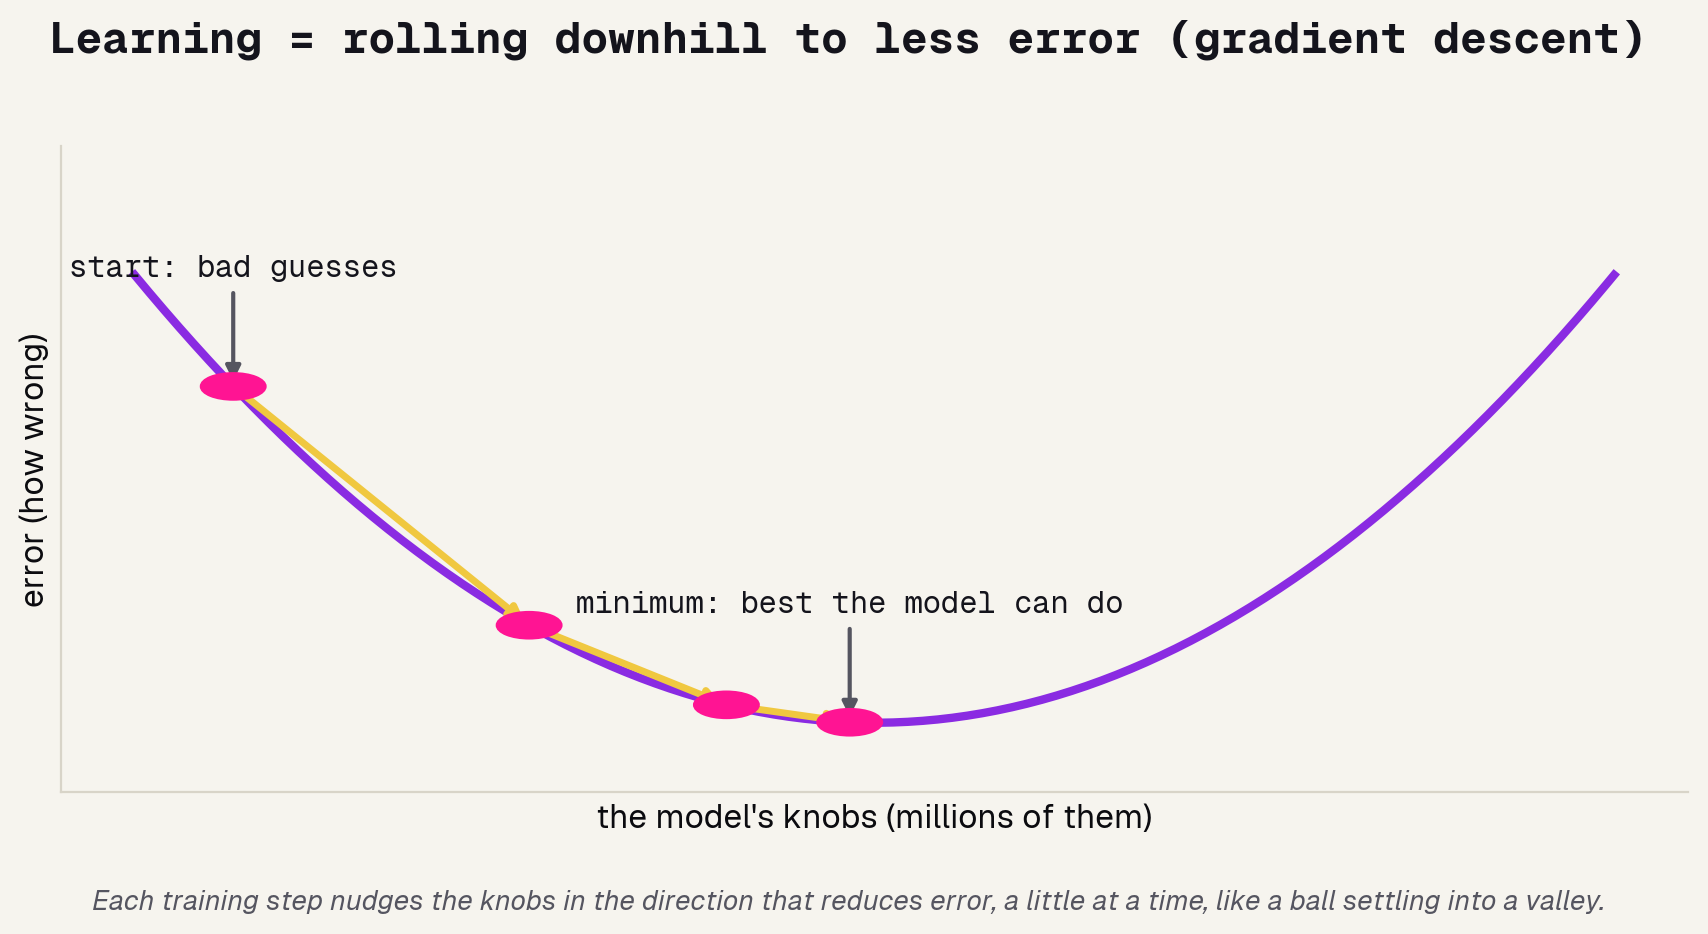
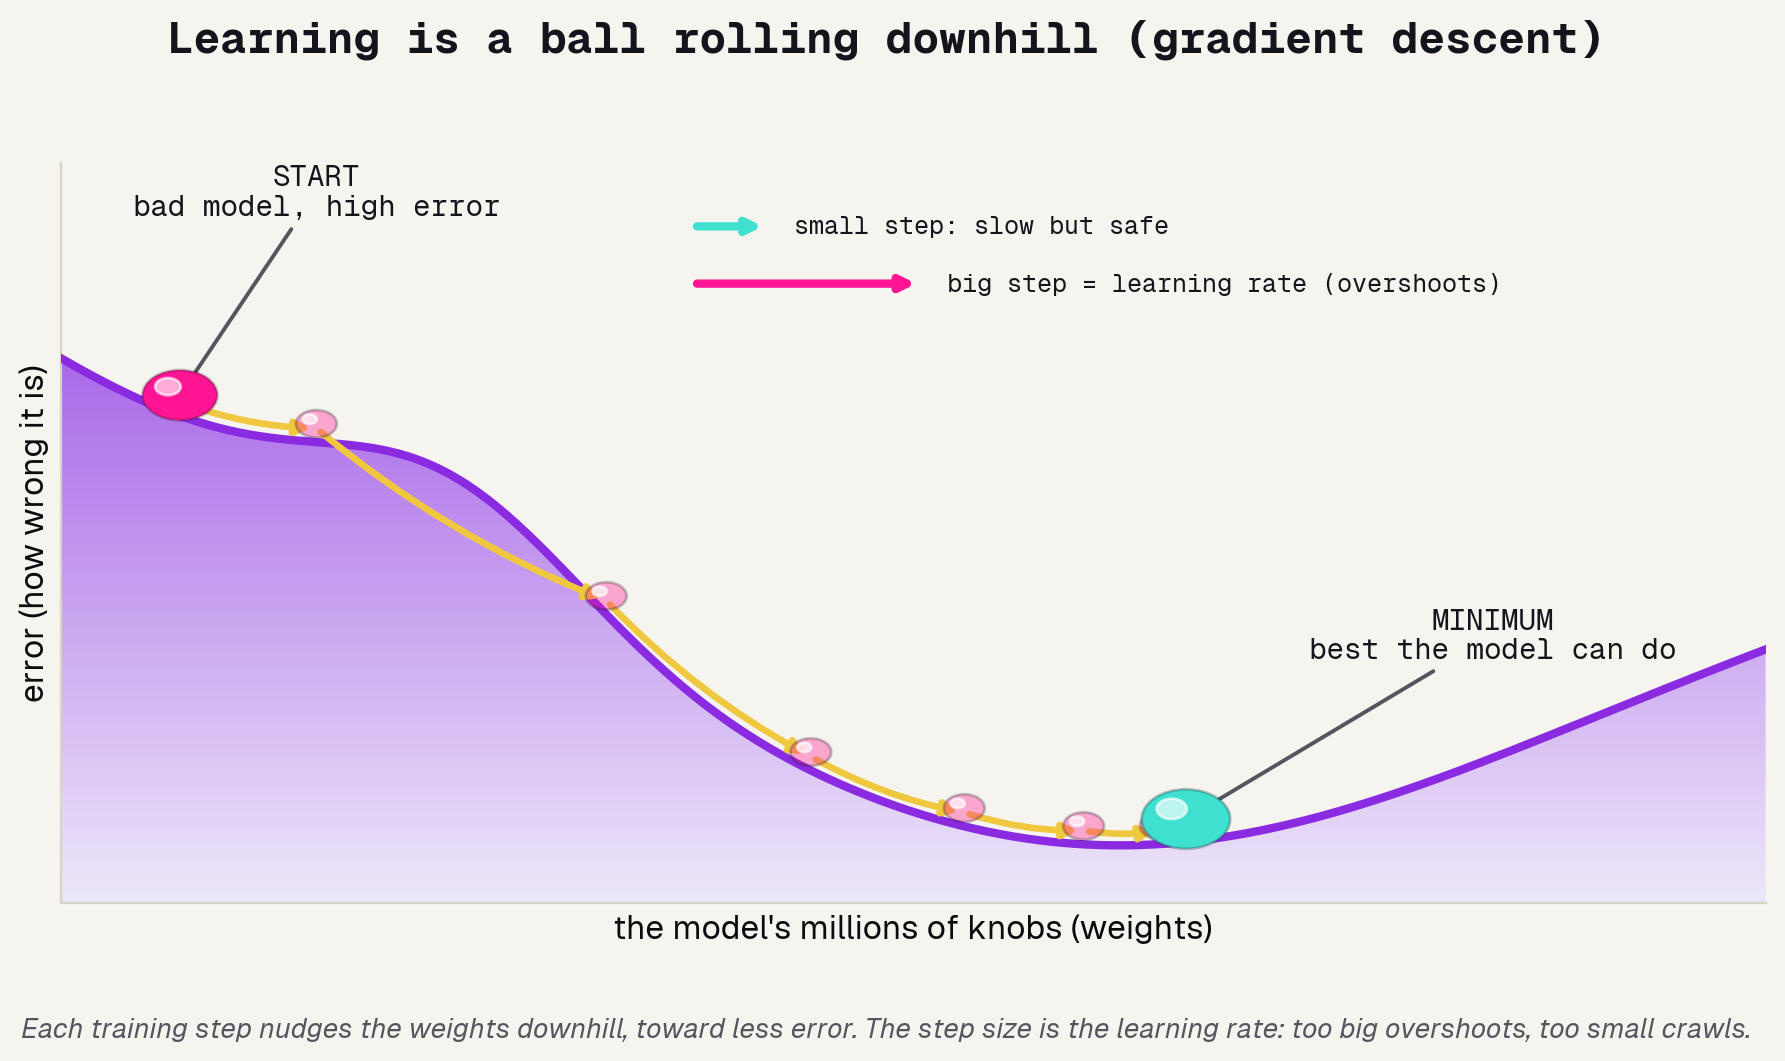
Day1: bespoke gradient-descent hill, concrete sens/spec, new ROC slide
- concept_gradient_descent: replace the abstract parabola with a detailed
  'ball rolling down a hill' -- gradient-filled landscape, glossy 3D balls on a
  motion trail, start->minimum, and a learning-rate step-size legend (too big
  overshoots, too small crawls). Ties to the notebook's LR playground.
- eval_sens_spec: replace two text boxes with a concrete 100-patient grid that
  marks the 2 MISSED cases (preventable blindness) and the false alarms, plus
  metric cards on the human cost.
- eval_roc (new): a real ROC curve with strict/balanced/screening operating
  points, AUC, and a 'how to read it' panel; new 'Reading an ROC curve' slide.

diff --git a/slides/figures_day1_extra.py b/slides/figures_day1_extra.py
@@ -77,31 +77,74 @@ def fig_data_split():
 # --------------------------------------------------------------------------- #
 # How learning works: gradient descent
 # --------------------------------------------------------------------------- #
+def _glossy_ball(ax, cx, cy, r, color, z=6):
+    """A ball that actually looks 3D: shaded body + a white sheen highlight."""
+    ax.add_patch(Circle((cx, cy), r, color=color, zorder=z, ec="none"))
+    ax.add_patch(Circle((cx, cy), r, fill=False, ec=INK, lw=1.0, alpha=0.25, zorder=z + 0.1))
+    ax.add_patch(Circle((cx - r * 0.32, cy + r * 0.34), r * 0.34, color="white", alpha=0.65, zorder=z + 0.2))
+
+
 def fig_gradient_descent():
-    fig, ax = plt.subplots(figsize=(10.5, 4.2))
-    x = np.linspace(-3, 3, 200)
-    y = 0.5 * x ** 2 + 0.4
-    ax.plot(x, y, color=BLUEVIOLET, lw=3)
-    ax.set_ylim(-0.3, 6.2)
-    pts = [(-2.6, "start: bad guesses"), (-1.4, ""), (-0.6, ""), (-0.1, "minimum: best the model can do")]
-    for px, lab in pts:
-        py = 0.5 * px ** 2 + 0.4
-        ax.add_patch(Circle((px, py), 0.13, color=DEEPPINK, zorder=5))
-        if lab:
-            ax.annotate(lab, (px, py), xytext=(px, py + 1.1), fontsize=11, family="Geist Mono",
-                        color=INK, ha="center",
-                        arrowprops=dict(arrowstyle="-|>", color=MUTED, lw=1.5))
-    for i in range(len(pts) - 1):
-        x0 = pts[i][0]; x1 = pts[i + 1][0]
-        ax.annotate("", xy=(x1, 0.5 * x1 ** 2 + 0.4), xytext=(x0, 0.5 * x0 ** 2 + 0.4),
-                    arrowprops=dict(arrowstyle="-|>", color=AMBER, lw=2.5))
-    ax.set_xlabel("the model's knobs (millions of them)", fontsize=12)
-    ax.set_ylabel("error (how wrong)", fontsize=12)
+    from matplotlib.colors import LinearSegmentedColormap
+    from matplotlib.patches import Polygon
+
+    fig, ax = plt.subplots(figsize=(11, 4.8))
+    x = np.linspace(0, 10, 500)
+    # a real rolling landscape: a deep valley on the right, a little local dip + bump on the left
+    y = (0.09 * (x - 6.6) ** 2          # the big bowl (global minimum near x=6.6)
+         + 0.9 * np.exp(-((x - 2.3) / 1.1) ** 2)   # a hump the ball rolls over
+         + 0.35 * np.sin(0.8 * x) + 1.0)
+
+    ymin = y.min() - 0.5
+    ax.set_xlim(0, 10); ax.set_ylim(ymin, y.max() + 1.7)
+
+    # gradient-filled hill under the curve (light at the surface -> brand violet deep down)
+    hill = LinearSegmentedColormap.from_list("hill", ["#EDE7FB", BLUEVIOLET])
+    grad = np.linspace(1, 0, 256).reshape(-1, 1)
+    im = ax.imshow(grad, extent=[0, 10, ymin, y.max() + 1.7], origin="upper", aspect="auto",
+                   cmap=hill, zorder=0, alpha=0.92)
+    verts = list(zip(x, y)) + [(10, ymin), (0, ymin)]
+    clip = Polygon(verts, closed=True, transform=ax.transData)
+    im.set_clip_path(clip)
+    ax.plot(x, y, color=BLUEVIOLET, lw=3, zorder=3)            # the hill surface line
+
+    def yof(xx):
+        return float(np.interp(xx, x, y))
+
+    # the descending trajectory: ball starts high-left, rolls over the hump into the valley
+    path = [0.7, 1.5, 3.2, 4.4, 5.3, 6.0, 6.45, 6.6]
+    for i in range(len(path) - 1):
+        x0, x1 = path[i], path[i + 1]
+        ax.annotate("", xy=(x1, yof(x1) + 0.12), xytext=(x0, yof(x0) + 0.12),
+                    arrowprops=dict(arrowstyle="-|>", color=AMBER, lw=2.4,
+                                    connectionstyle="arc3,rad=0.08"), zorder=4)
+    for xx in path[1:-1]:                                       # faded "motion" balls
+        _glossy_ball(ax, xx, yof(xx) + 0.16, 0.12, DEEPPINK, z=4)
+        ax.patches[-3].set_alpha(0.35)
+
+    # start + end emphasised
+    _glossy_ball(ax, path[0], yof(path[0]) + 0.18, 0.22, DEEPPINK, z=7)
+    ax.annotate("START\nbad model, high error", (path[0], yof(path[0]) + 0.18),
+                xytext=(1.5, y.max() + 1.25), fontsize=10.5, family="Geist Mono", color=INK, ha="center",
+                arrowprops=dict(arrowstyle="-|>", color=MUTED, lw=1.4))
+    _glossy_ball(ax, path[-1], yof(path[-1]) + 0.2, 0.26, TURQUOISE, z=7)
+    ax.annotate("MINIMUM\nbest the model can do", (path[-1], yof(path[-1]) + 0.2),
+                xytext=(8.4, yof(path[-1]) + 1.6), fontsize=10.5, family="Geist Mono", color=INK, ha="center",
+                arrowprops=dict(arrowstyle="-|>", color=MUTED, lw=1.4))
+
+    # learning-rate = step size inset (two arrows of different lengths), in the open top-center
+    lx, ly = 3.7, y.max() + 1.15
+    ax.annotate("", xy=(lx + 0.45, ly), xytext=(lx, ly), arrowprops=dict(arrowstyle="-|>", color=TURQUOISE, lw=3))
+    ax.text(lx + 0.6, ly, "small step: slow but safe", fontsize=9, color=INK, va="center", family="Geist Mono")
+    ax.annotate("", xy=(lx + 1.35, ly - 0.5), xytext=(lx, ly - 0.5), arrowprops=dict(arrowstyle="-|>", color=DEEPPINK, lw=3))
+    ax.text(lx + 1.5, ly - 0.5, "big step = learning rate (overshoots)", fontsize=9, color=INK, va="center", family="Geist Mono")
+
+    ax.set_xlabel("the model's millions of knobs (weights)", fontsize=12)
+    ax.set_ylabel("error (how wrong it is)", fontsize=12)
     ax.set_xticks([]); ax.set_yticks([])
-    figtitle(fig, "Learning = rolling downhill to less error (gradient descent)")
-    fig.text(0.5, -0.03, "Each training step nudges the knobs in the direction that reduces error, "
-             "a little at a time, like a ball settling into a valley.",
-             ha="center", fontsize=10, color=MUTED, style="italic")
+    figtitle(fig, "Learning is a ball rolling downhill (gradient descent)")
+    fig.text(0.5, -0.03, "Each training step nudges the weights downhill, toward less error. The step size is "
+             "the learning rate: too big overshoots, too small crawls.", ha="center", fontsize=10, color=MUTED, style="italic")
     save(fig, "concept_gradient_descent.png")
 
 
@@ -189,22 +232,104 @@ def fig_confusion():
 # Sensitivity vs specificity
 # --------------------------------------------------------------------------- #
 def fig_sens_spec():
-    fig, (axL, axR) = plt.subplots(1, 2, figsize=(11, 4.0))
-    for ax, name, defn, q, c in [
-        (axL, "SENSITIVITY", "of the truly sick,\nhow many did we catch?", "Miss a referral\n= preventable blindness", DEEPPINK),
-        (axR, "SPECIFICITY", "of the truly healthy,\nhow many did we clear?", "False alarm\n= a needless specialist visit", TURQUOISE)]:
-        ax.axis("off"); ax.set_xlim(0, 1); ax.set_ylim(0, 1)
-        ax.add_patch(FancyBboxPatch((0.04, 0.08), 0.92, 0.84, boxstyle="round,pad=0.02,rounding_size=0.04",
-                                    facecolor=c, edgecolor="none"))
-        tc = txt_on(c)
-        ax.text(0.5, 0.76, name, ha="center", fontsize=20, fontweight="bold", color=tc, family="Geist Mono")
-        ax.text(0.5, 0.52, defn, ha="center", va="center", fontsize=13, color=tc)
-        ax.text(0.5, 0.22, q, ha="center", va="center", fontsize=11, color=tc, style="italic")
-    figtitle(fig, "The two numbers that matter in screening")
-    fig.text(0.5, -0.03, "For screening we usually favor SENSITIVITY: better to send a few healthy "
-             "people for a second look than to miss someone going blind.",
+    """100 real patients: show who gets caught, cleared, missed, and falsely alarmed."""
+    fig, (axG, axR) = plt.subplots(1, 2, figsize=(11.5, 4.8),
+                                   gridspec_kw={"width_ratios": [1.25, 1]})
+    # --- left: a population of 100 patients ---
+    axG.axis("off"); axG.set_xlim(-0.6, 10); axG.set_ylim(-2.0, 9.8)
+    axG.invert_yaxis()
+    # 20 sick patients at fixed scattered positions; 2 of them MISSED; 9 healthy = false alarms
+    sick = {3, 7, 11, 16, 22, 24, 31, 38, 40, 45, 52, 56, 61, 67, 70, 74, 81, 88, 93, 96}
+    missed = {40, 74}                 # sick but model said "fine" -> the costly errors
+    false_alarm = {5, 19, 28, 47, 59, 64, 83, 90, 99}   # healthy but model referred
+    LIGHT = "#D9D6CC"
+    for i in range(100):
+        r, c = divmod(i, 10)
+        if i in sick:
+            axG.add_patch(Circle((c, r), 0.38, color=DEEPPINK, zorder=3))
+            if i in missed:           # ring + slash = a missed case
+                axG.add_patch(Circle((c, r), 0.46, fill=False, ec=INK, lw=2.6, zorder=4))
+                axG.plot([c - 0.3, c + 0.3], [r + 0.3, r - 0.3], color=INK, lw=2.4, zorder=5)
+        else:
+            axG.add_patch(Circle((c, r), 0.38, color=LIGHT, zorder=3))
+            if i in false_alarm:
+                axG.add_patch(Circle((c, r), 0.46, fill=False, ec=AMBER, lw=2.6, zorder=4))
+    axG.set_title("100 patients screened", fontsize=12, color=INK, family="Geist Mono")
+    # mini legend above the grid (2x2)
+    leg = [(DEEPPINK, "has disease"), (LIGHT, "healthy"), (INK, "MISSED (x)"), (AMBER, "false alarm (o)")]
+    for k, (col, lab) in enumerate(leg):
+        lx = (k % 2) * 5.0; ly = -1.65 + (k // 2) * 0.7
+        axG.add_patch(Circle((lx, ly), 0.22, color=col if col != INK else "white",
+                             ec=col if col in (INK, AMBER) else "none", lw=2.2))
+        axG.text(lx + 0.45, ly, lab, fontsize=9.5, color=INK, va="center", family="Geist Mono")
+
+    # --- right: the two numbers + the human cost ---
+    axR.axis("off"); axR.set_xlim(0, 1); axR.set_ylim(0, 1)
+    axR.add_patch(FancyBboxPatch((0.03, 0.55), 0.94, 0.4, boxstyle="round,pad=0.02,rounding_size=0.06",
+                                 facecolor=DEEPPINK, edgecolor="none"))
+    axR.text(0.5, 0.85, "SENSITIVITY = 90%", ha="center", fontsize=17, fontweight="bold",
+             color="white", family="Geist Mono")
+    axR.text(0.5, 0.66, "caught 18 of 20 sick.\nthe 2 we MISSED -> preventable blindness",
+             ha="center", va="center", fontsize=11, color="white")
+    axR.add_patch(FancyBboxPatch((0.03, 0.08), 0.94, 0.4, boxstyle="round,pad=0.02,rounding_size=0.06",
+                                 facecolor=TURQUOISE, edgecolor="none"))
+    axR.text(0.5, 0.38, "SPECIFICITY = 89%", ha="center", fontsize=17, fontweight="bold",
+             color=txt_on(TURQUOISE), family="Geist Mono")
+    axR.text(0.5, 0.19, "cleared 71 of 80 healthy.\n9 false alarms -> a needless specialist visit",
+             ha="center", va="center", fontsize=11, color=txt_on(TURQUOISE))
+    figtitle(fig, "Sensitivity and specificity, in actual people")
+    fig.text(0.5, -0.03, "A missed case (✕) is far costlier than a false alarm (○), so screening tools are "
+             "tuned for high sensitivity, even at the price of more false alarms.",
              ha="center", fontsize=10, color=MUTED, style="italic")
     save(fig, "eval_sens_spec.png")
+
+
+# --------------------------------------------------------------------------- #
+# ROC curve + thresholds
+# --------------------------------------------------------------------------- #
+def fig_roc():
+    """A real ROC curve with three operating points and what moving the threshold does."""
+    fig, (axL, axR) = plt.subplots(1, 2, figsize=(11.5, 4.8),
+                                   gridspec_kw={"width_ratios": [1.05, 1]})
+    # a realistic ROC: TPR vs FPR for a decent model (AUC ~ 0.9)
+    fpr = np.linspace(0, 1, 200)
+    tpr = fpr ** 0.28                     # concave, well above the diagonal
+    axL.plot([0, 1], [0, 1], ls="--", color=MUTED, lw=1.5, label="random guessing")
+    axL.plot(fpr, tpr, color=BLUEVIOLET, lw=3.5, zorder=3)
+    axL.fill_between(fpr, tpr, fpr, color=BLUEVIOLET, alpha=0.10)
+    # three operating points along the curve
+    ops = [(0.04, 0.04 ** 0.28, "strict\n(high specificity)", TURQUOISE, (0.07, -0.10)),
+           (0.20, 0.20 ** 0.28, "balanced", AMBER, (0.06, 0.05)),
+           (0.55, 0.55 ** 0.28, "screening\n(high sensitivity)", DEEPPINK, (0.02, 0.06))]
+    for fx, ty, lab, c, (ox, oy) in ops:
+        axL.add_patch(Circle((fx, ty), 0.022, color=c, zorder=6))
+        axL.annotate(lab, (fx, ty), xytext=(fx + ox, ty + oy), fontsize=9.5,
+                     family="Geist Mono", color=INK)
+    axL.text(0.55, 0.18, "AUC ~ 0.90", fontsize=13, fontweight="bold", color=BLUEVIOLET, family="Geist Mono")
+    axL.set_xlabel("false-alarm rate  (1 - specificity)", fontsize=11)
+    axL.set_ylabel("catch rate  (sensitivity)", fontsize=11)
+    axL.set_xlim(-0.02, 1.02); axL.set_ylim(-0.02, 1.05)
+    axL.set_xticks([0, 0.5, 1]); axL.set_yticks([0, 0.5, 1]); axL.legend(loc="lower right", fontsize=9.5)
+    axL.set_title("the ROC curve", fontsize=12, color=INK, family="Geist Mono")
+
+    # right: how to read it
+    axR.axis("off"); axR.set_xlim(0, 1); axR.set_ylim(0, 1)
+    rows = [("Every point is a threshold.", "Slide the cutoff and you move along the curve, trading "
+             "catch rate against false alarms.", BLUEVIOLET),
+            ("Up-and-left is better.", "The closer the curve hugs the top-left corner, the better the "
+             "model. The dashed line is a coin flip.", TURQUOISE),
+            ("AUC = one summary number.", "The area under the curve, 0.5 is random, 1.0 is perfect. "
+             "It rates the model independent of any one threshold.", AMBER),
+            ("Screening sits to the right.", "We accept more false alarms to push catch rate up; "
+             "missing a patient is the worst error.", DEEPPINK)]
+    import textwrap
+    for i, (head, body, c) in enumerate(rows):
+        y = 0.95 - i * 0.245
+        axR.add_patch(Rectangle((0.02, y - 0.13), 0.05, 0.17, color=c))
+        axR.text(0.12, y, head, fontsize=12, fontweight="bold", color=INK, family="Geist Mono", va="center")
+        axR.text(0.12, y - 0.10, textwrap.fill(body, 42), fontsize=9.3, color=INK, va="top")
+    figtitle(fig, "Reading an ROC curve")
+    save(fig, "eval_roc.png")
 
 
 # --------------------------------------------------------------------------- #
@@ -238,5 +363,6 @@ if __name__ == "__main__":
     fig_accuracy_lies()
     fig_confusion()
     fig_sens_spec()
+    fig_roc()
     fig_threshold()
     print("extra figures done")

diff --git a/slides/layout_day1.py b/slides/layout_day1.py
@@ -487,7 +487,16 @@ no; it outputs a confidence, and YOU pick the threshold for action. Set a low ba
 and you catch more disease but raise more false alarms; set a high bar and the reverse. There
 is no magic point that wins on both, the curves cross. The clinical context decides: a blindness
 screener leans toward catching everything. The takeaway: evaluation is a values question, not
-just a math question. Transition: enough theory, time to build.
+just a math question. Transition: every threshold at once is the ROC curve.
+""")
+
+fig_slide("reading-an-roc-curve", "eval_roc.png", """
+Give them the chart they'll judge medical models by. As you slide the threshold from strict to
+lenient, the (false-alarm, catch-rate) point traces the ROC curve. One picture holds every
+operating point. Teach three reads: every point is a threshold; up-and-left is better (the
+dashed diagonal is a coin flip); and AUC, the area underneath, is the one-number summary
+(0.5 random, 1.0 perfect). Screening tools deliberately operate to the right, accepting false
+alarms to keep the catch rate high. Transition: enough theory, time to build.
 """)
 
 # Where the data comes from / fairness — 3 cards

diff --git a/slides/day1.md b/slides/day1.md
@@ -214,6 +214,14 @@ Here is the part students find surprising: the model does not hand you one answe
 
 ---
 
+## Reading an ROC curve
+
+Every threshold you could pick traces out one curve: the ROC. It plots catch rate (sensitivity) against false-alarm rate as you slide the dial. One picture summarizes every operating point at once. The closer it hugs the top-left, the better the model, and the area under it (AUC) is the single number people quote. This is the chart you will stare at most when you judge a medical model.
+
+![Reading an ROC curve](figures/eval_roc.png)
+
+---
+
 # The lab
 
 ---